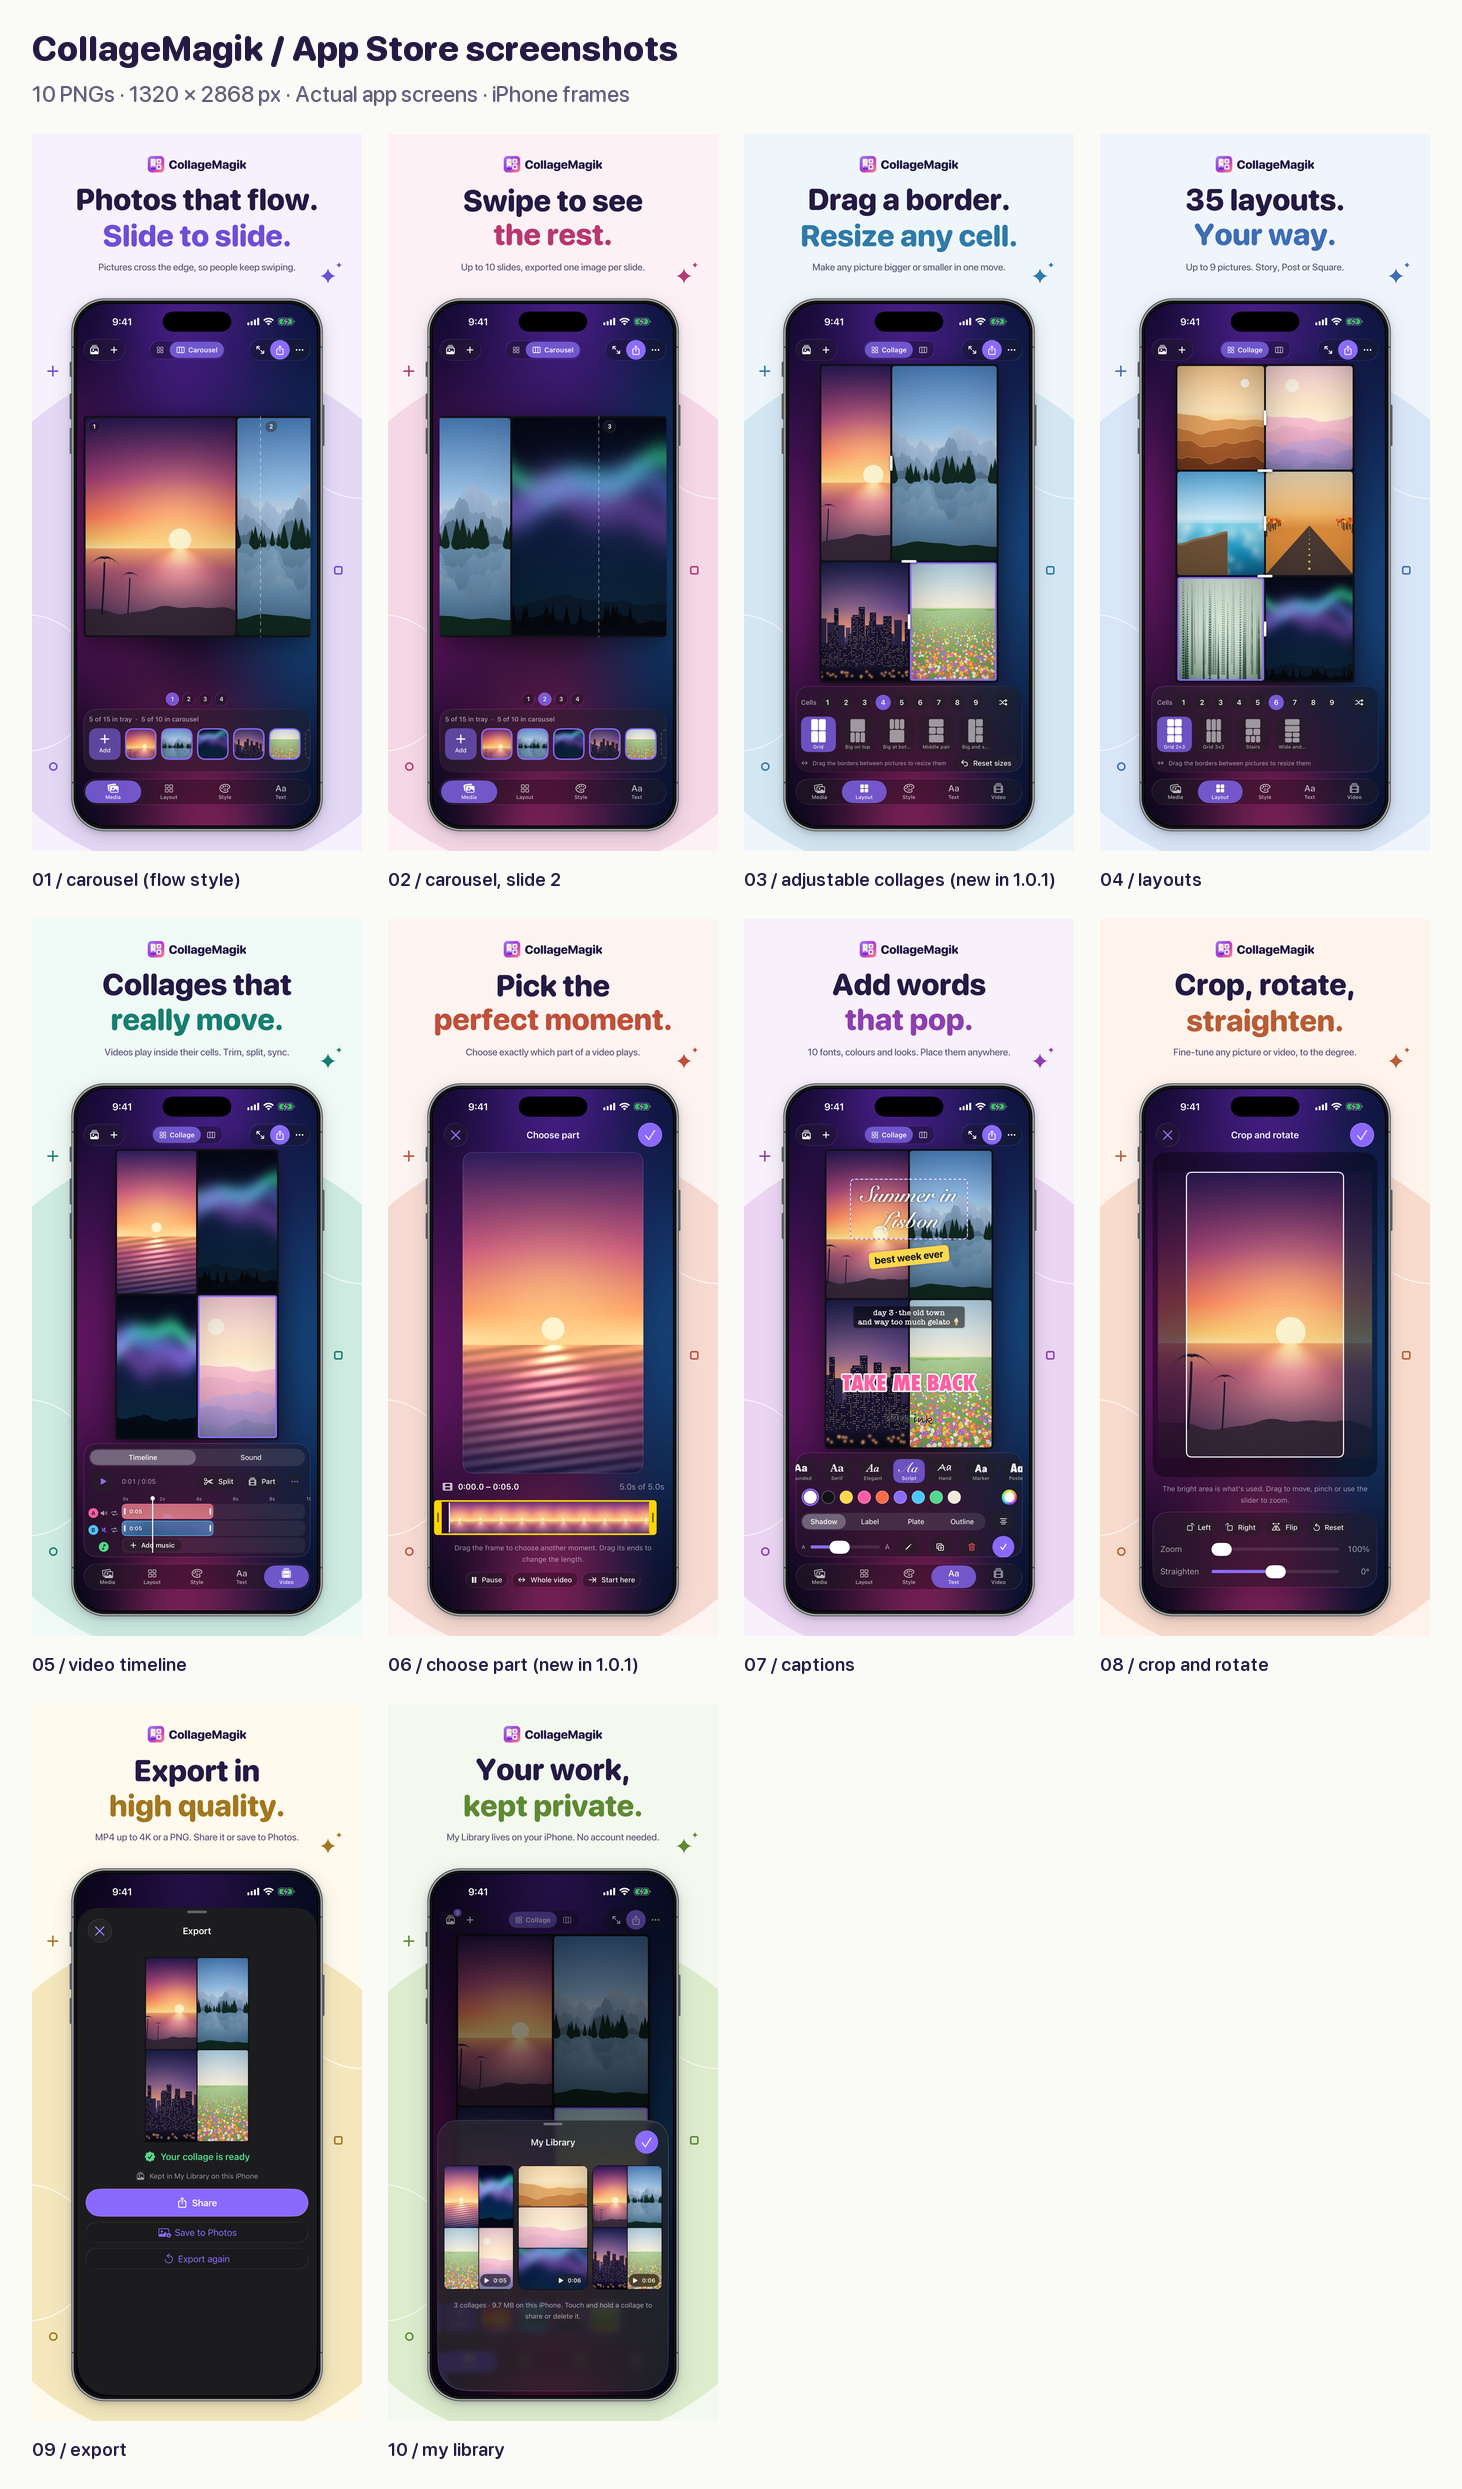
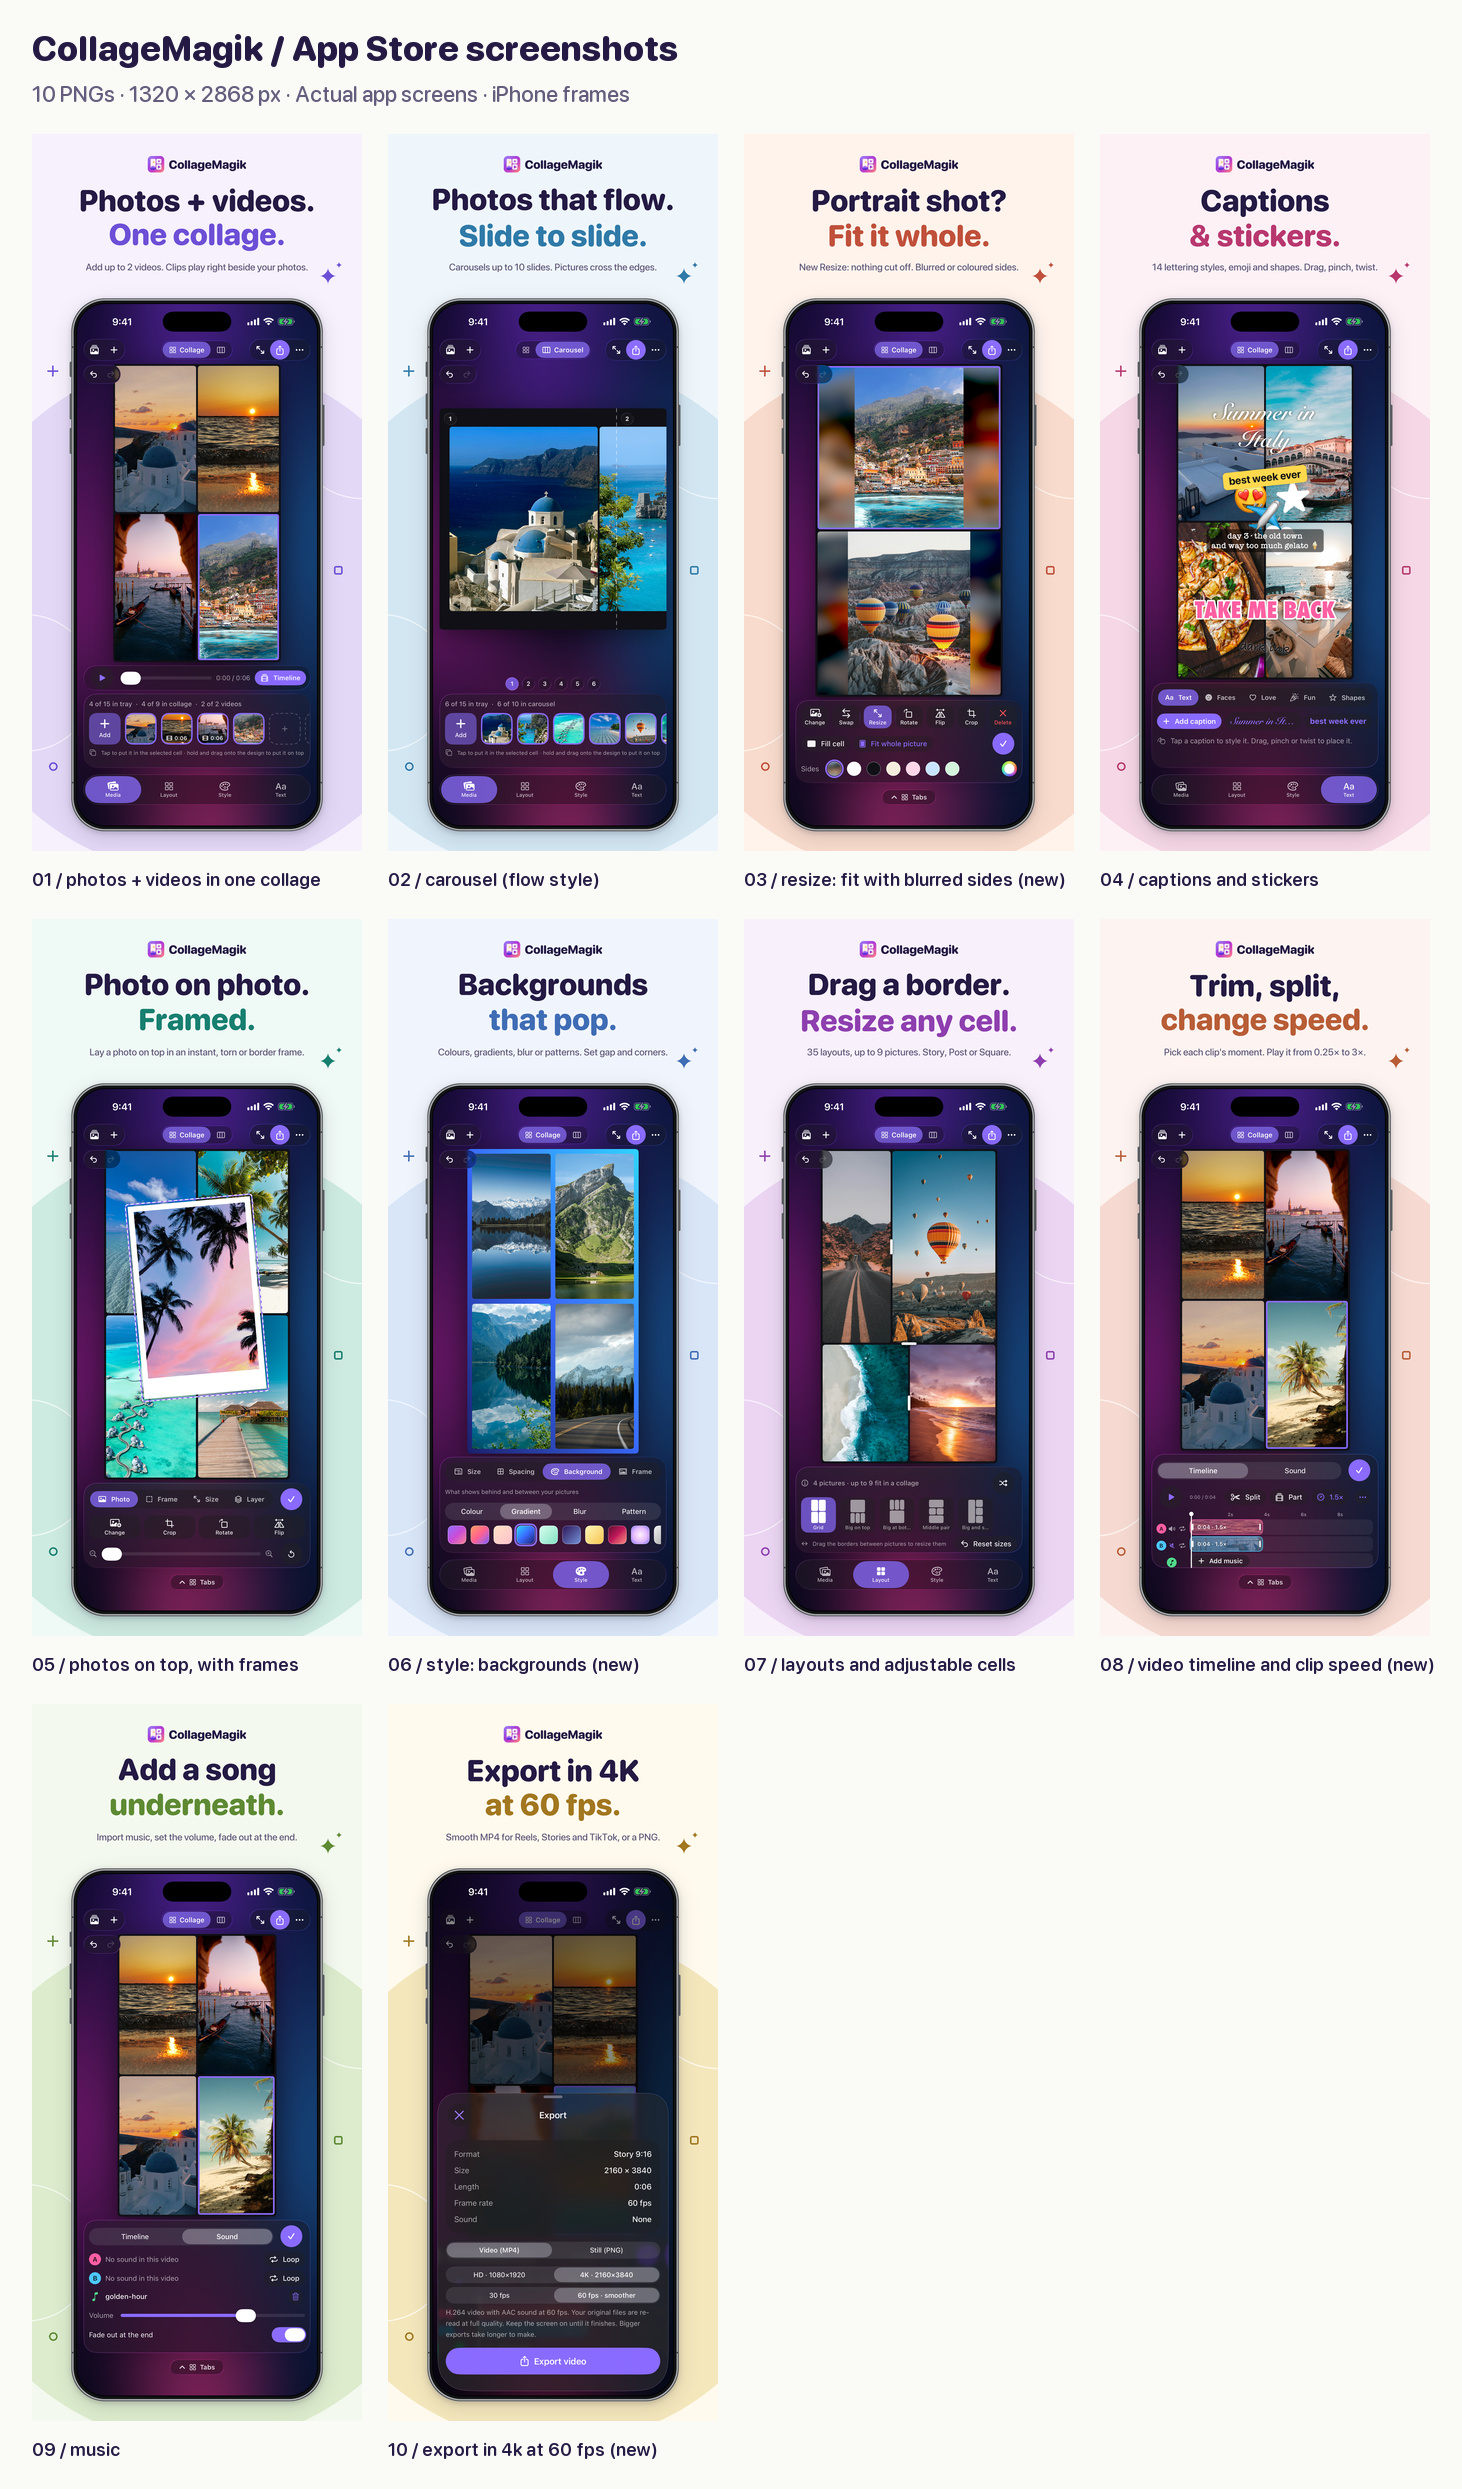
app store images

Changed region(s): [[0.2462, 0.0619, 0.985, 0.6806], [0.0308, 0.0619, 0.2155, 0.99], [0.277, 0.7115, 0.4617, 0.99]]

diff --git a/ios/AppStore/screenshots/README.md b/ios/AppStore/screenshots/README.md
@@ -6,26 +6,28 @@ The style follows the Figureout and Mindstrike sets: pastel field, two-line roun
 
 | # | Poster | Raw capture | Shows |
 |---|---|---|---|
-| 1 | Photos that flow. Slide to slide. | `raw/01-carousel.png` | Carousel in the Flow style (the default), a picture crossing the slide seam |
-| 2 | Swipe to see the rest. | `raw/02-carousel-next.png` | Same carousel scrolled to slide 2 |
-| 3 | Drag a border. Resize any cell. | `raw/03-resize.png` | Layout tab, cells resized by dragging borders (new in 1.0.1) |
-| 4 | 35 layouts. Your way. | `raw/04-layout.png` | Layout tab, 6 pictures |
-| 5 | Collages that really move. | `raw/05-timeline.png` | Two videos on the timeline |
-| 6 | Pick the perfect moment. | `raw/06-choose-part.png` | Choose part (new in 1.0.1) |
-| 7 | Add words that pop. | `raw/07-captions.png` | Captions |
-| 8 | Crop, rotate, straighten. | `raw/08-crop.png` | Crop editor |
-| 9 | Export in high quality. | `raw/09-export.png` | "Your collage is ready" |
-| 10 | Your work, kept private. | `raw/10-library.png` | My Library with three collages |
+| 1 | Photos + videos. One collage. | `raw/01-mix.png` | Two photos and two videos in one collage (tray shows the video badges) |
+| 2 | Photos that flow. Slide to slide. | `raw/02-carousel.png` | Carousel in the Flow style, a picture crossing the slide seam |
+| 3 | Portrait shot? Fit it whole. | `raw/03-fit.png` | New Resize tool: portrait photos fitted whole with blurred sides |
+| 4 | Captions & stickers. | `raw/04-captions.png` | Captions in several looks, emoji and shape stickers, Text tab |
+| 5 | Photo on photo. Framed. | `raw/05-on-top.png` | A photo laid on top in an instant frame, its tools open |
+| 6 | Backgrounds that pop. | `raw/06-backgrounds.png` | Style tab, Background group, a gradient behind a wide gap |
+| 7 | Drag a border. Resize any cell. | `raw/07-resize.png` | Layout tab, cells resized by dragging borders |
+| 8 | Trim, split, change speed. | `raw/08-timeline.png` | Two clips on the timeline at 1.5x |
+| 9 | Add a song underneath. | `raw/09-sound.png` | Sound panel with an imported song, volume and fade-out |
+| 10 | Export in 4K at 60 fps. | `raw/10-export.png` | Export sheet with 4K and 60 fps selected |
 
-**No ads in the screenshots.** Captures 1-8 were taken with `SIMCTL_CHILD_CM_PRO=1` (debug builds treat the app as Pro, so no
-banner, no full-screen ad, no consent or tracking prompt). 9 and 10 predate the ads. If an "Apple Account Verification" alert
-appears in the simulator (StoreKit asking for the sandbox account), tap Not Now before capturing.
+**No ads in the screenshots.** Captures were taken with `SIMCTL_CHILD_CM_PRO=1` (debug builds treat the app as Pro, so no
+banner, no full-screen ad, no consent or tracking prompt). If an "Apple Account Verification" alert appears in the
+simulator (StoreKit asking for the sandbox account), tap Not Now before capturing.
 
-The raw captures are real iPhone 17 Pro Max simulator screens (9:41 status bar) and are placed unmodified;
-no app UI is redrawn. The pictures and videos inside the collages are **procedurally drawn stand-ins**
-(`source/make_media.py`), so nothing third-party is published. Swap in your own photos for a more
-"real" look: pass them to the app via `SIMCTL_CHILD_CM_AUTOLOAD=a.jpg,b.jpg` (see `DebugHarness.swift`) and
-re-capture with `xcrun simctl io booted screenshot raw/NN-name.png`.
+The raw captures are real iPhone 17 Pro Max simulator screens (9:41 status bar, `xcrun simctl status_bar ... override`)
+and are placed unmodified; no app UI is redrawn. The pictures are Unsplash travel photos (free for commercial use, no
+identifiable people; credits in `google-ads/source/public/travel/credits.json`), loaded with `CM_AUTOLOAD`. The two
+videos are slow pans made from those photos (`google-ads/source/assets-raw/app-media/`). Each screen is staged with
+the debug hooks in `DebugHarness.swift` (for example `CM_FIT=blur CM_SELECT=0 CM_RESIZE=1` for screen 3,
+`CM_TAB=style CM_STYLE_SECTION=background CM_BACKDROP=gradient:3 CM_GAP=30` for screen 6); export was set to 4K and
+60 fps by tapping. Re-capture with `xcrun simctl io booted screenshot raw/NN-name.png`.
 
 ## Which size goes where
 
